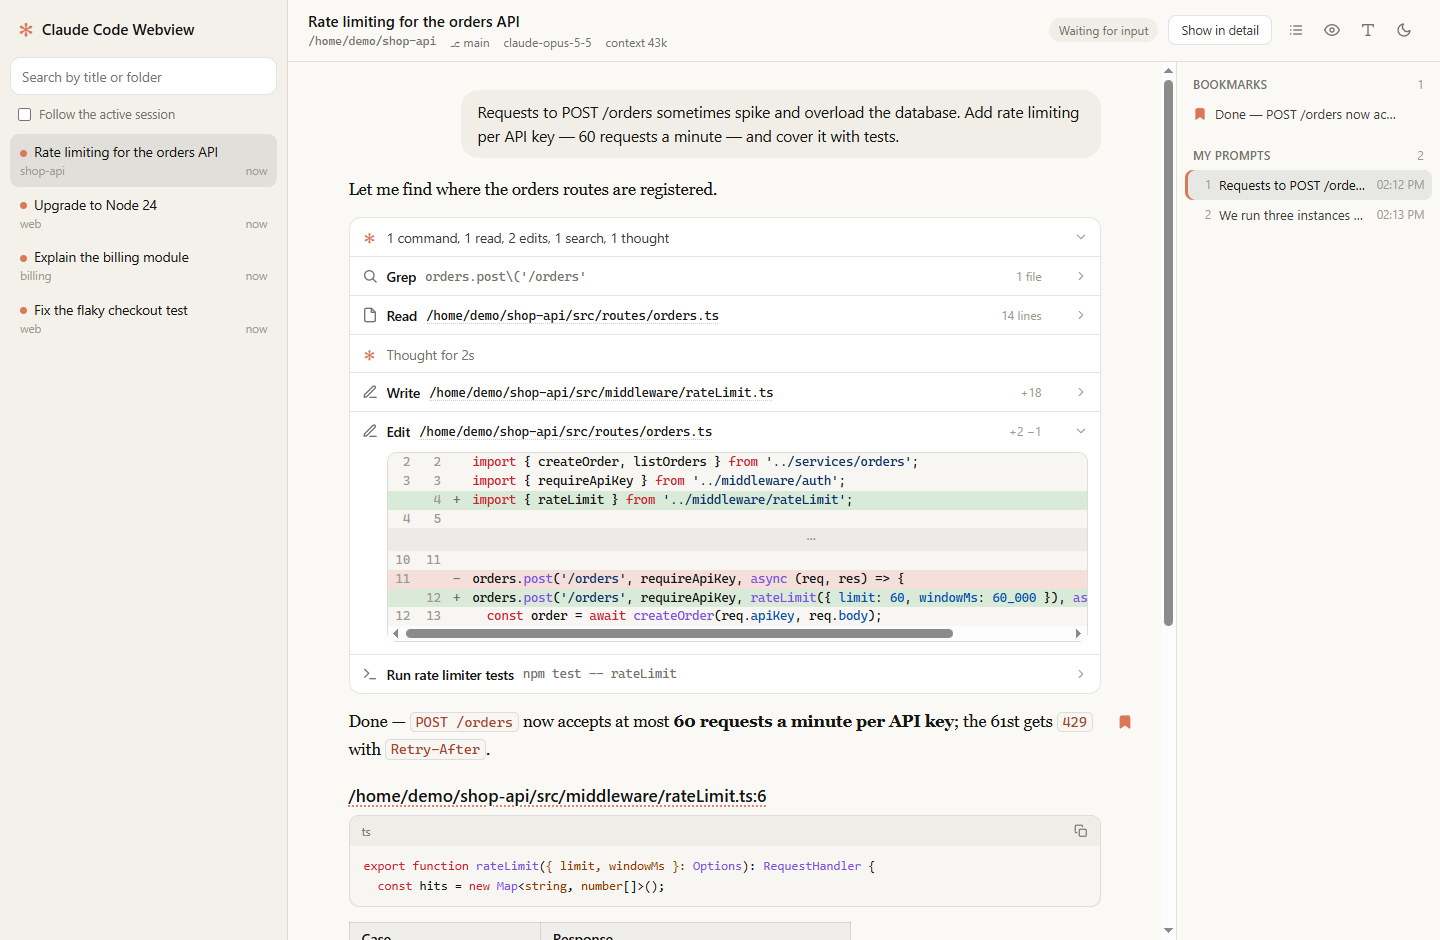
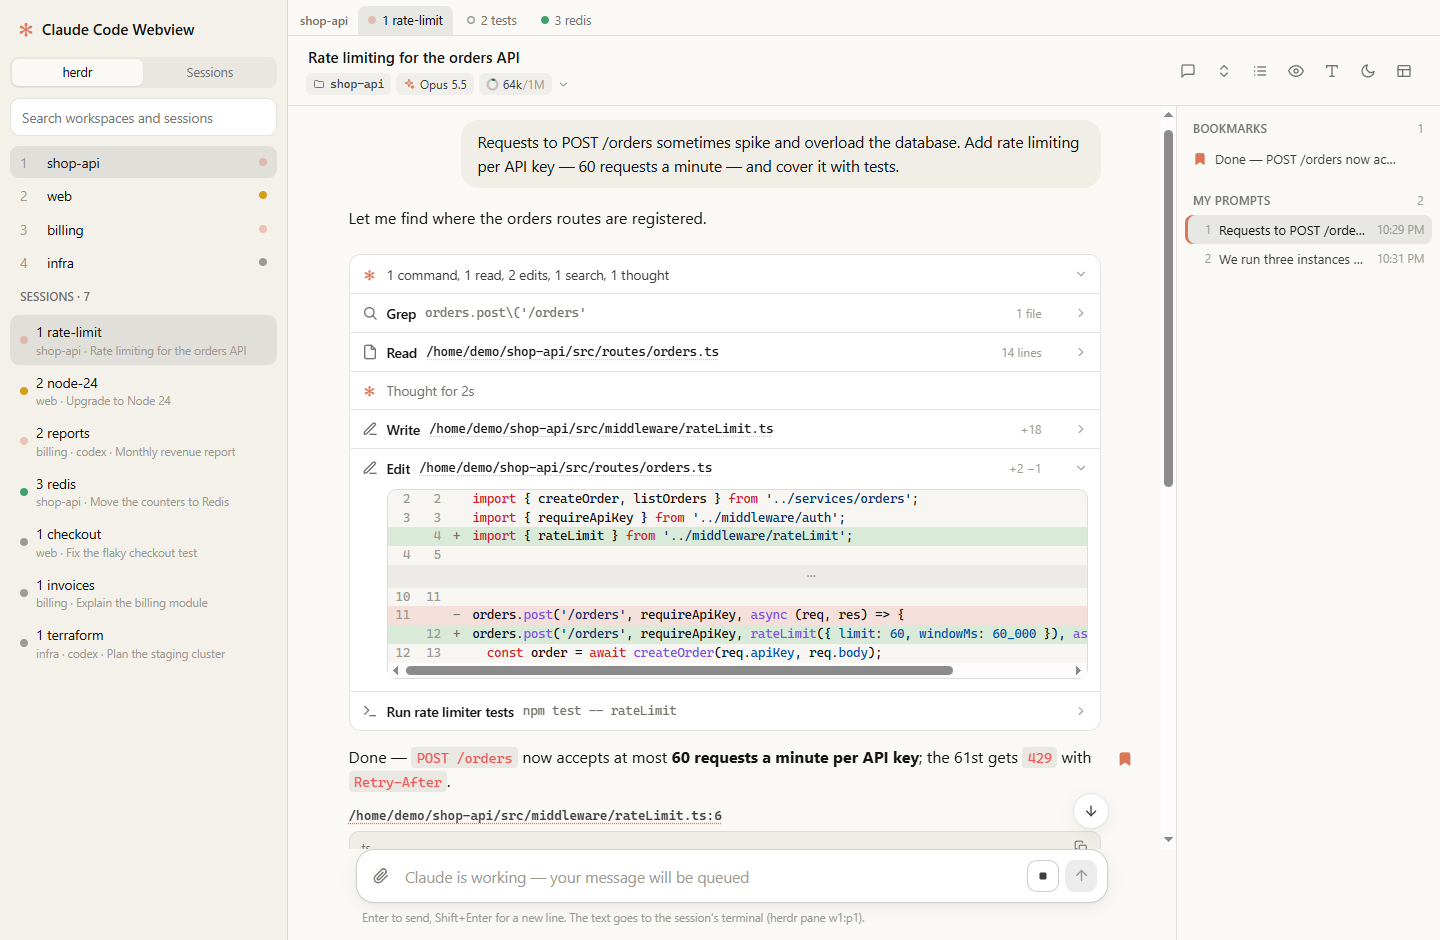
Screenshots of the herdr view, a terminal and the phone, on fictional sessions; the search hint and a terminal's name follow herdr

diff --git a/public/app.js b/public/app.js
@@ -168,13 +168,21 @@ function createPage() {
   const herdrSidebar = createHerdrSidebar(herdrPanel);
   const tabBar = createTabBar();
   /** The herdr pane whose terminal the page shows (#/pane/<id>) instead of a session. */
-  /** @type {{ id: string, terminal: ReturnType<typeof mountTerminal> } | undefined} */
+  /** @type {{ id: string, terminal: ReturnType<typeof mountTerminal>, title: HTMLElement } | undefined} */
   let currentPane;
   /**
    * The size of a pane's terminal, as herdr lays it out.
    * @param {string} paneId
    */
   const paneSize = (paneId) => placeOf(herdrLayout, { kind: 'pane', id: paneId })?.tab.panes.find((pane) => pane.id === paneId)?.size;
+  /**
+   * A pane's name for its terminal's top row: its workspace and tab, or its id until the page has heard from herdr.
+   * @param {string} paneId
+   */
+  const paneName = (paneId) => {
+    const place = placeOf(herdrLayout, { kind: 'pane', id: paneId });
+    return place === undefined ? paneId : `${place.workspace.label} · ${place.tab.label}`;
+  };
 
   /** @param {string} text — the search box text; following ignores it */
   const listed = (text) => listedSessions(sessions, { sdk: showSdk.checked ? 'shown' : 'hidden', search: text, workspaces: workspaces.of });
@@ -287,12 +295,11 @@ function createPage() {
     current = undefined;
     currentPane?.terminal.dispose();
     const terminal = mountTerminal({ pane: paneId, size: paneSize(paneId) });
-    const place = placeOf(herdrLayout, { kind: 'pane', id: paneId });
     // On a phone the sidebar is a drawer: the terminal's top row opens it, as a session's header does.
-    const name = place === undefined ? paneId : `${place.workspace.label} · ${place.tab.label}`;
-    const top = h('div', { className: 'terminal-top' }, [drawerButton('sessions', 'menu', 'Sessions'), h('span', { className: 'terminal-title', text: name })]);
+    const title = h('span', { className: 'terminal-title', text: paneName(paneId) });
+    const top = h('div', { className: 'terminal-top' }, [drawerButton('sessions', 'menu', 'Sessions'), title]);
     main.replaceChildren(top, tabBar.element, terminal.element);
-    currentPane = { id: paneId, terminal };
+    currentPane = { id: paneId, terminal, title };
     renderList();
   };
 
@@ -450,8 +457,9 @@ function createPage() {
       workspacesKnown = known;
       workspaces = next;
       groupWorkspacesOption.hidden = !next.herdr;
-      search.placeholder = next.herdr ? 'Search by title, folder or workspace' : 'Search by title or folder';
       renderList();
+      // the search box's hint depends on the sidebar's mode as well
+      this.renderHerdr();
     },
     followLatest() {
       const [latest] = listed('');
@@ -479,9 +487,11 @@ function createPage() {
       const opened = openedAt(location.hash);
       if (mode === 'herdr') herdrSidebar.render(herdrLayout, opened, search.value);
       tabBar.render(herdrLayout, opened);
-      // A terminal opened before the page heard from herdr takes its pane's size now.
-      const size = currentPane === undefined ? undefined : paneSize(currentPane.id);
-      if (size !== undefined) currentPane?.terminal.resize(size);
+      // A terminal opened before the page heard from herdr takes its pane's size and name now.
+      if (currentPane === undefined) return;
+      const size = paneSize(currentPane.id);
+      if (size !== undefined) currentPane.terminal.resize(size);
+      currentPane.title.textContent = paneName(currentPane.id);
     },
     /** What herdr shows now: its workspaces, tabs, panes and their agents' status. */
     async refreshHerdr() {

diff --git a/README.md b/README.md
@@ -87,10 +87,13 @@ open session — or terminal — the tabs of its workspace sit in a row, as in h
 tab with Claude Code opens its feed; any other tab — a shell, nvim, another agent — opens its terminal. The search finds
 workspaces and sessions by name and by what runs in them.
 
-A terminal mirrors the one in herdr, at its size: what herdr shows comes within a fifth of a second of typing, and the
-keys you type go to it as they are — Enter, arrows, Ctrl+C. herdr does not tell where the cursor is, so no cursor is
-drawn. On a phone the terminal's font shrinks to fit the width, down to a readable size, and it scrolls sideways past
-that. A tab split into several panes shows the one running Claude Code, or else its first pane.
+A terminal mirrors the one in herdr, at its size: the keys you type go to it as they are — Enter, arrows, Ctrl+C — and
+what herdr shows comes back within a few hundredths of a second (the viewer talks to herdr through its socket; where
+the socket is not known, through the herdr program, a fifth of a second). herdr does not tell where the cursor is, so no
+cursor is drawn. On a phone the terminal's font shrinks to fit the width, down to a readable size, and it scrolls
+sideways past that. A tab split into several panes shows the one running Claude Code, or else its first pane.
+
+![A herdr tab's terminal next to the herdr sidebar](docs/terminal.png)
 
 ### Sending prompts
 
@@ -173,6 +176,8 @@ page still opens and shows what it saved, and catches up once the computer is ba
 On a phone the session list and the outline slide in from the sides, and the swipe from the left edge — the browser's
 Back — brings back the list the session was chosen in. On the touch keyboard Enter starts a new line and ↑ sends; the
 paperclip takes photos from the gallery or the camera.
+
+![On a phone: a session with its herdr tabs, the herdr sidebar, a terminal](docs/mobile.png)
 
 Several computers? Give each its own tunnel, hostname and `--palette`, and the pages are told apart at a glance.
 
